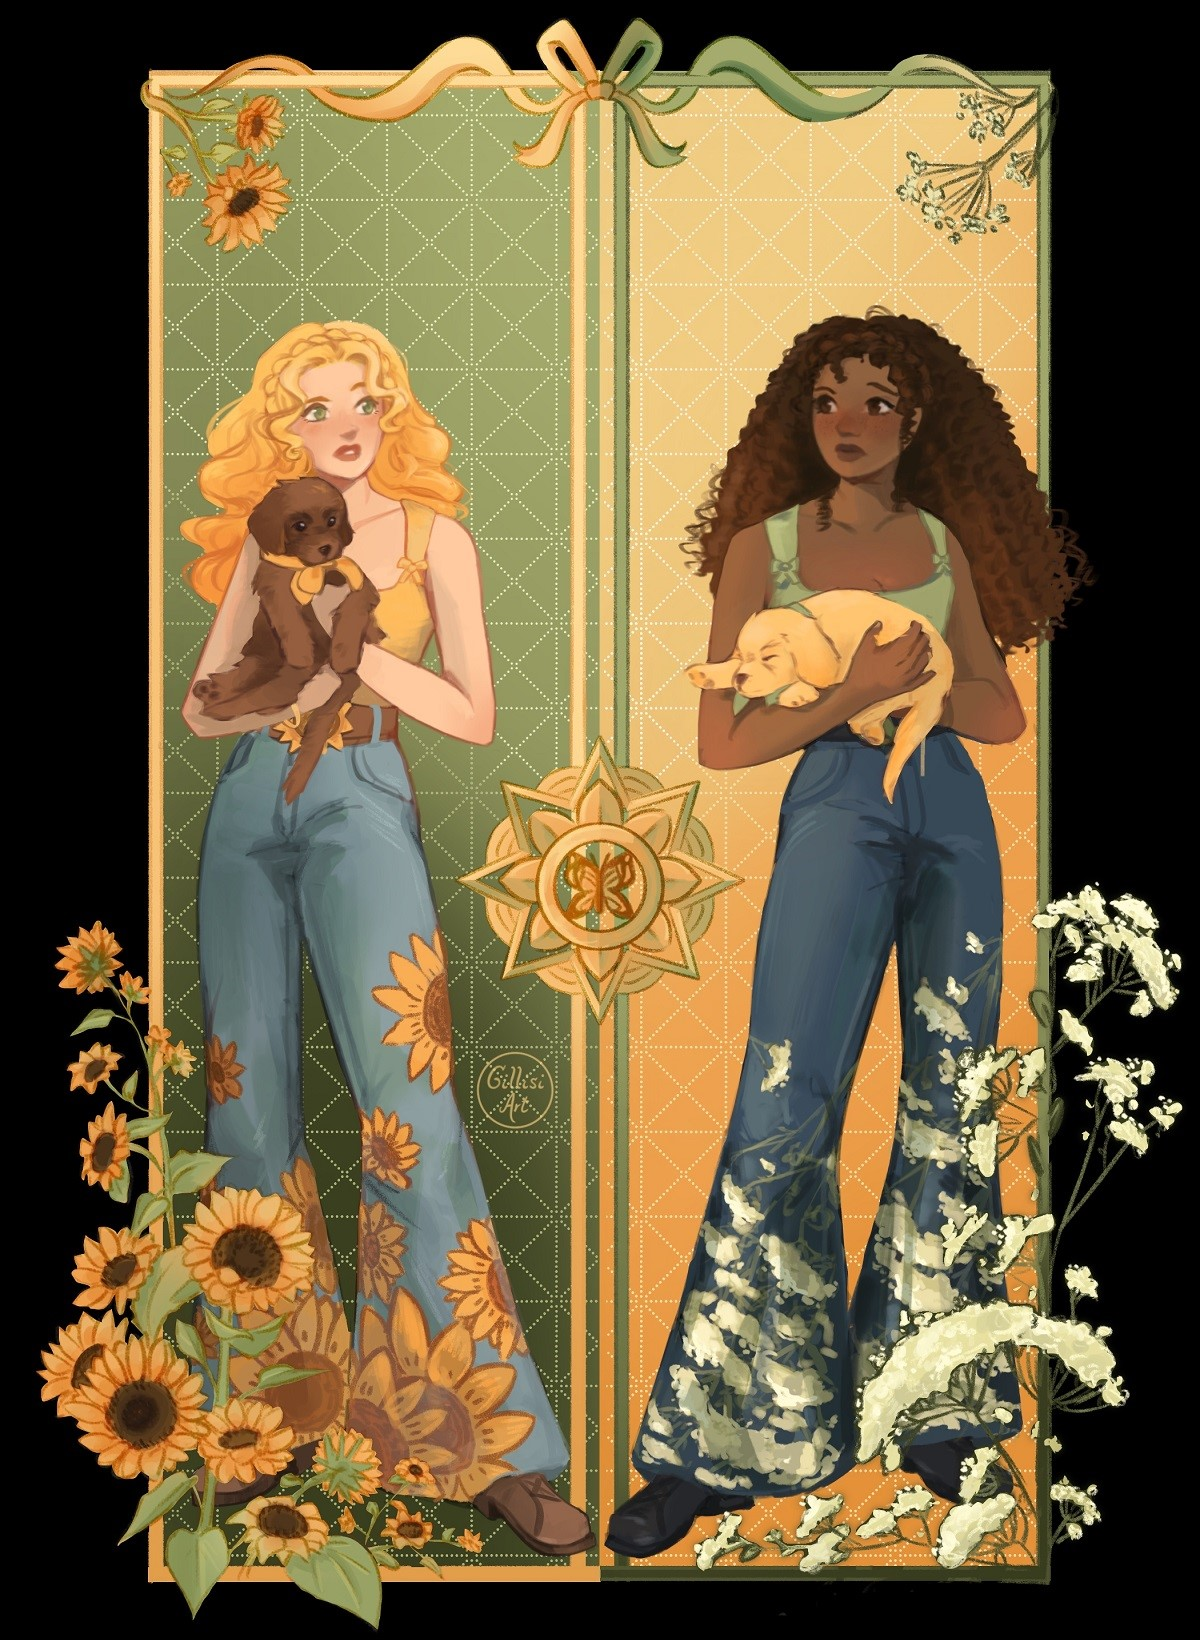
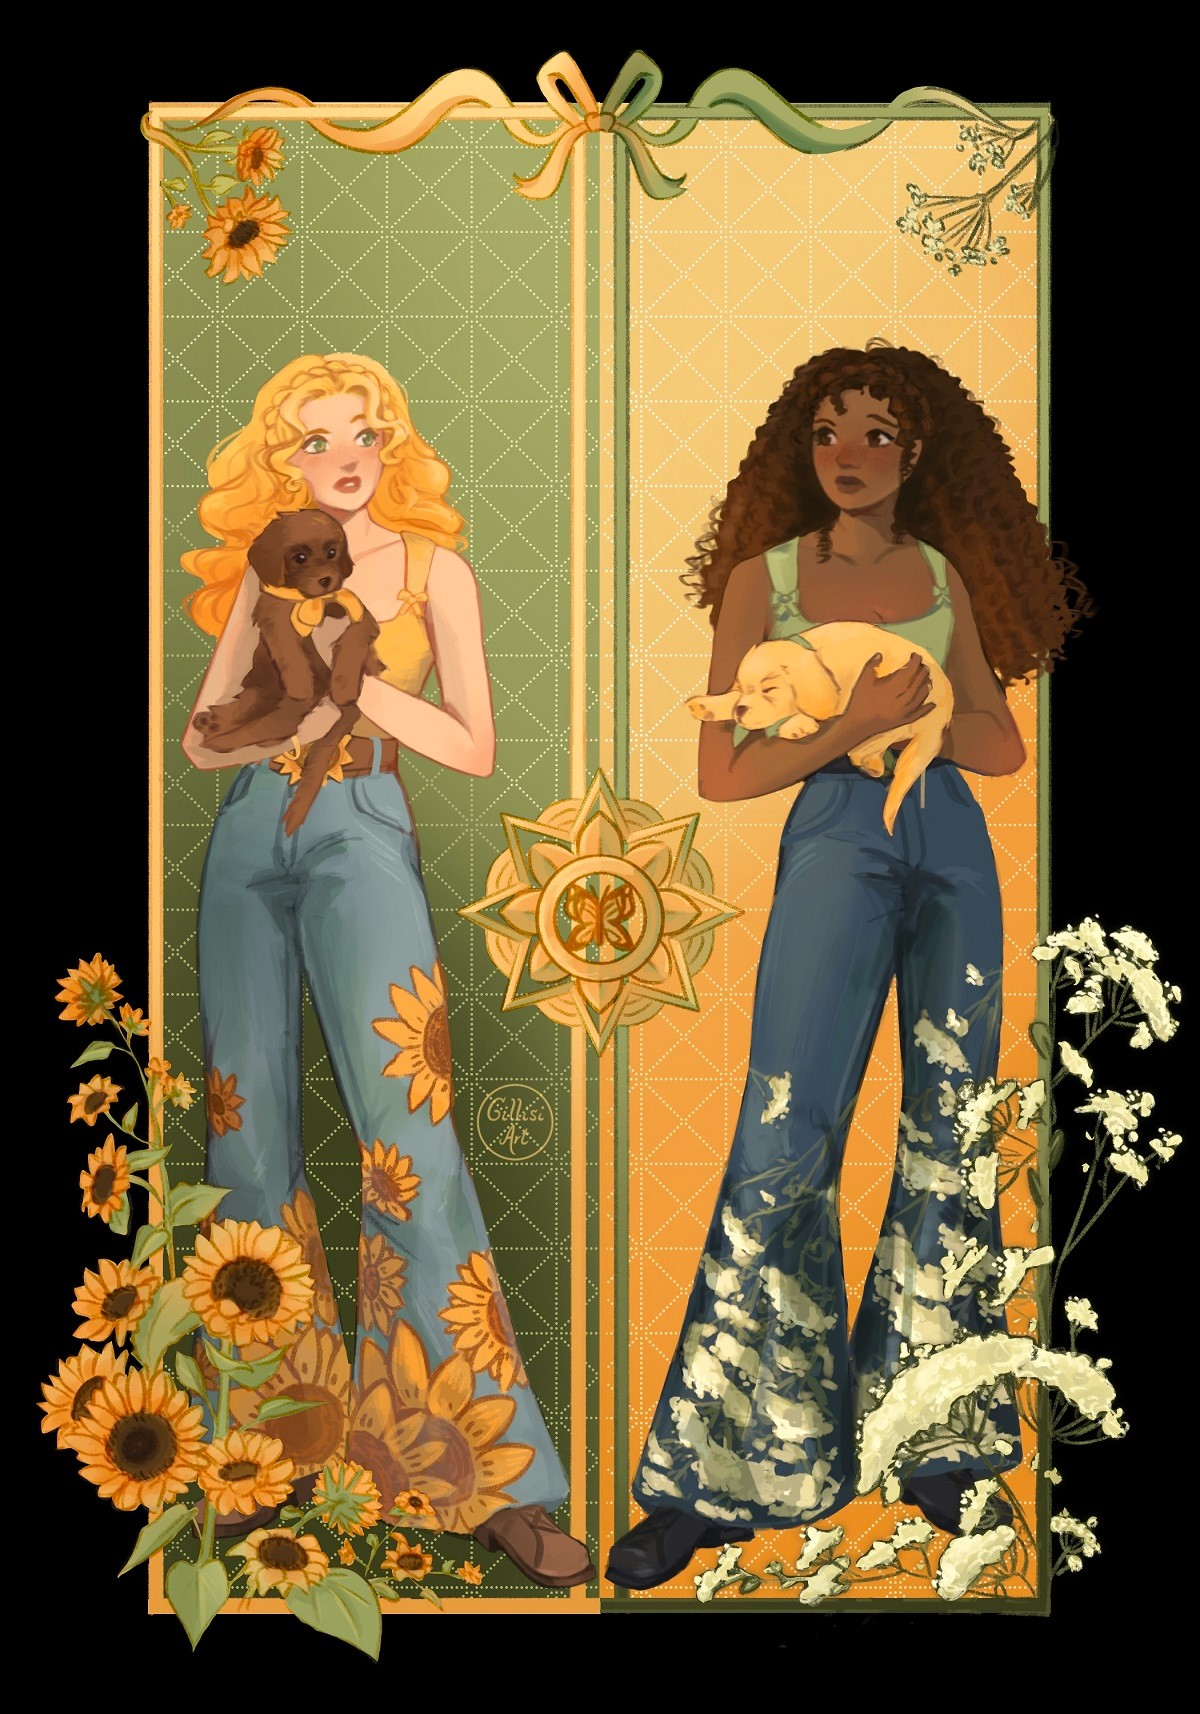
new illustration

diff --git a/_includes/gallery-data.html b/_includes/gallery-data.html
@@ -274,21 +274,21 @@
 			image: "{{ '/assets/images/digitalart/Seasons_Greetings.jpg' | relative_url }}",
 		},
 		{
-			title: "Ballerina Studies",
-			image: "{{ '/assets/images/digitalart/Ballerina_Studies.jpg' | relative_url }}",
+			title: "Summer's End",
+			image: "{{ '/assets/images/digitalart/Summers_End.jpg' | relative_url }}",
 		},
 		{
 			title: "Botany Witch",
 			image: "{{ '/assets/images/digitalart/Botany-witch.jpg' | relative_url }}",
 		},
 		{
-			title: "Medieval Witch",
-			image: "{{ '/assets/images/digitalart/Medieval-witch.jpg' | relative_url }}",
+			title: "Ballerina Studies",
+			image: "{{ '/assets/images/digitalart/Ballerina_Studies.jpg' | relative_url }}",
 		},
-		{
-			title: "Autumn Fairy",
-			image: "{{ '/assets/images/digitalart/Autumn-fairy.jpg' | relative_url }}",
-		},
+		// {
+		// 	title: "Autumn Fairy",
+		// 	image: "{{ '/assets/images/digitalart/Autumn-fairy.jpg' | relative_url }}",
+		// },
 		{
 			title: "When Harry Met Sally",
 			image: "{{ '/assets/images/digitalart/When_Harry_Met_Sally.jpg' | relative_url }}",
@@ -298,16 +298,20 @@
 			image: "{{ '/assets/images/digitalart/Eowyn-Faramir-love.jpg' | relative_url }}",
 		},
 		{
+			title: "Medieval Witch",
+			image: "{{ '/assets/images/digitalart/Medieval-witch.jpg' | relative_url }}",
+		},
+		{
 			title: "Statues and Flowers - Yellow",
 			image: "{{ '/assets/images/digitalart/Statues_and_Flowers_yellow.jpg' | relative_url }}",
 		},
 		{
-			title: "Mirror Image",
-			image: "{{ '/assets/images/digitalart/Mirror_Image.jpg' | relative_url }}",
-		},
-		{
 			title: "Statues and Flowers - Green",
 			image: "{{ '/assets/images/digitalart/Statues_and_Flowers_green.jpg' | relative_url }}",
+		},
+		{
+			title: "Mirror Image",
+			image: "{{ '/assets/images/digitalart/Mirror_Image.jpg' | relative_url }}",
 		},
 		{
 			title: "Anidala",
